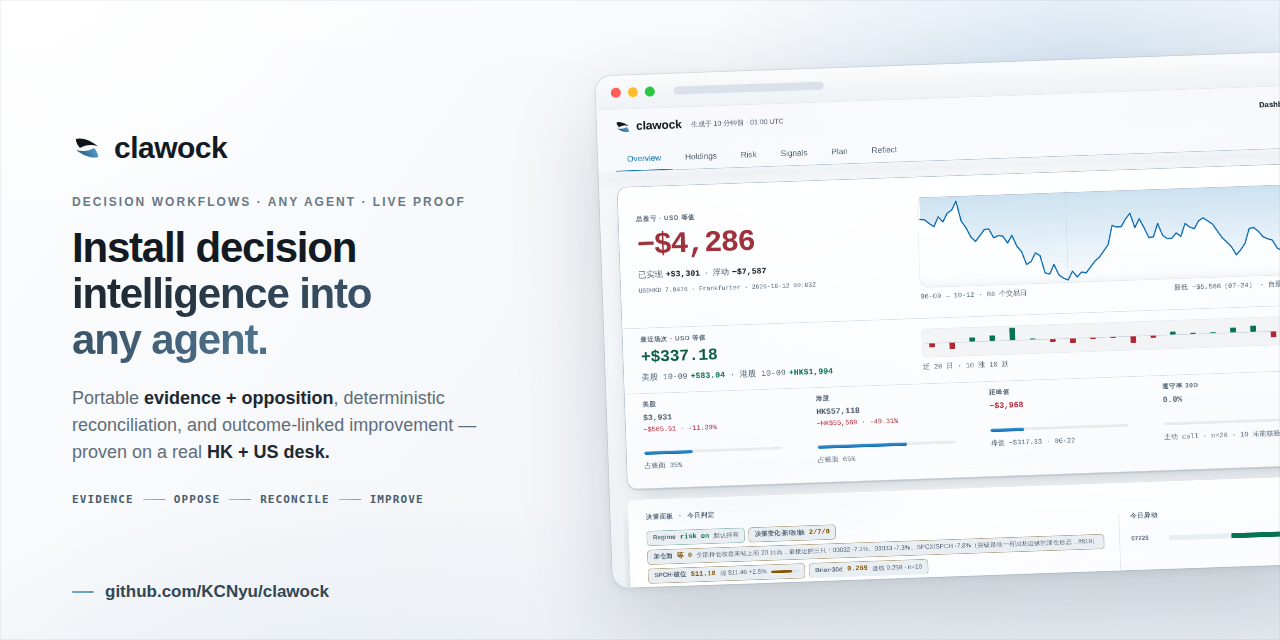
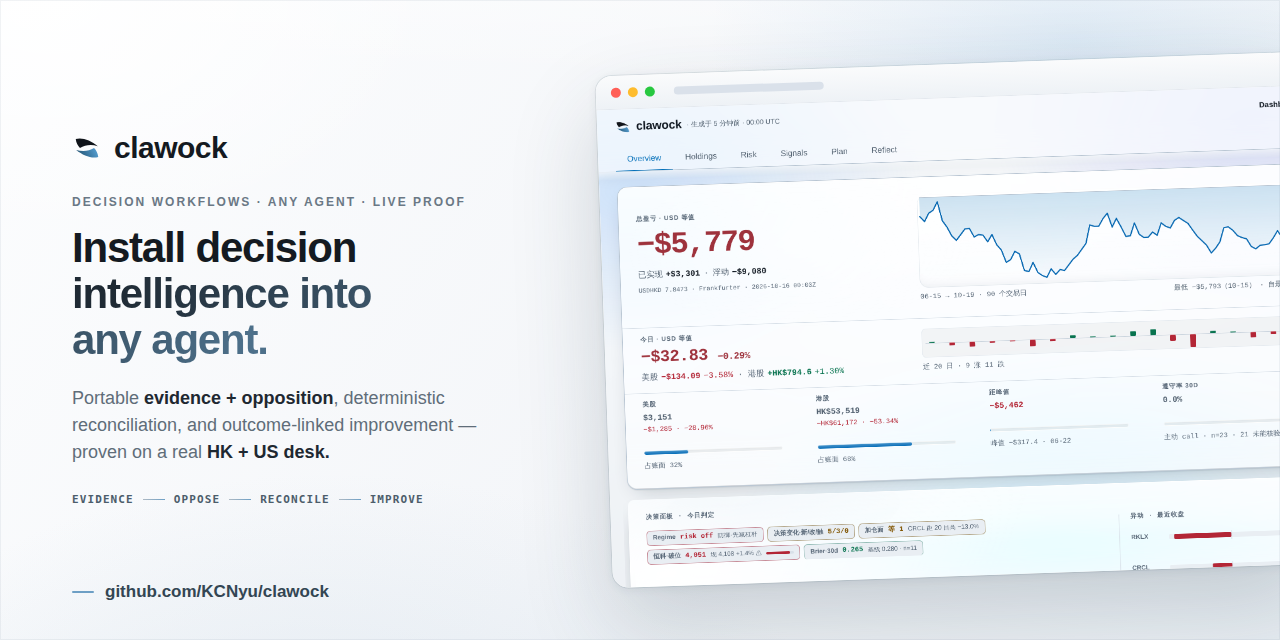
docs: README refresh (visuals + metrics) 2026-10-19

diff --git a/README.md b/README.md
@@ -23,7 +23,7 @@
 
 <a href="https://kcnyu.github.io/clawock/#drill"><picture><source media="(max-width: 700px)" srcset="https://raw.githubusercontent.com/KCNyu/clawock/refs/heads/master/site/assets/books-narrow.svg"><img src="https://raw.githubusercontent.com/KCNyu/clawock/refs/heads/master/site/assets/books.svg" width="820" alt="US book and Hong Kong book, side by side: each book's return, the basis that return is divided by, and its daily P&amp;L curve in its own currency; the combined return sits underneath on a mixed basis"></picture></a>
 
-| **<!-- CW_M:days -->148<!-- /CW_M:days -->** | **<!-- CW_M:rows -->1013<!-- /CW_M:rows -->** | **<!-- CW_M:settled -->166<!-- /CW_M:settled -->** | **48** | **5** | **0** |
+| **<!-- CW_M:days -->155<!-- /CW_M:days -->** | **<!-- CW_M:rows -->1045<!-- /CW_M:rows -->** | **<!-- CW_M:settled -->174<!-- /CW_M:settled -->** | **48** | **5** | **0** |
 |:---:|:---:|:---:|:---:|:---:|:---:|
 | days live on a real HK + US account | decisions on the public ledger | episodes settled by code | data modules across 8 layers | agent harnesses, one contract | scores the model wrote for itself |
 

diff --git a/README.zh.md b/README.zh.md
@@ -23,7 +23,7 @@
 
 <a href="https://kcnyu.github.io/clawock/#drill"><picture><source media="(max-width: 700px)" srcset="site/assets/books-narrow.svg"><img src="site/assets/books.svg" width="820" alt="美股账本与港股账本并排:各自的回报率、该回报率所除的本金口径,以及各自币种下的逐日盈亏曲线;下方是混合口径的合并回报率"></picture></a>
 
-| **<!-- CW_M:days -->148<!-- /CW_M:days -->** | **<!-- CW_M:rows -->1013<!-- /CW_M:rows -->** | **<!-- CW_M:settled -->166<!-- /CW_M:settled -->** | **48** | **5** | **0** |
+| **<!-- CW_M:days -->155<!-- /CW_M:days -->** | **<!-- CW_M:rows -->1045<!-- /CW_M:rows -->** | **<!-- CW_M:settled -->174<!-- /CW_M:settled -->** | **48** | **5** | **0** |
 |:---:|:---:|:---:|:---:|:---:|:---:|
 | 天,真实港美股账户实盘 | 条决策,账本全部公开 | 个案例由代码结算 | 8 层抓取与计算模块 | 种 Agent harness,同一份契约 | 条分数由模型给自己打 |
 
